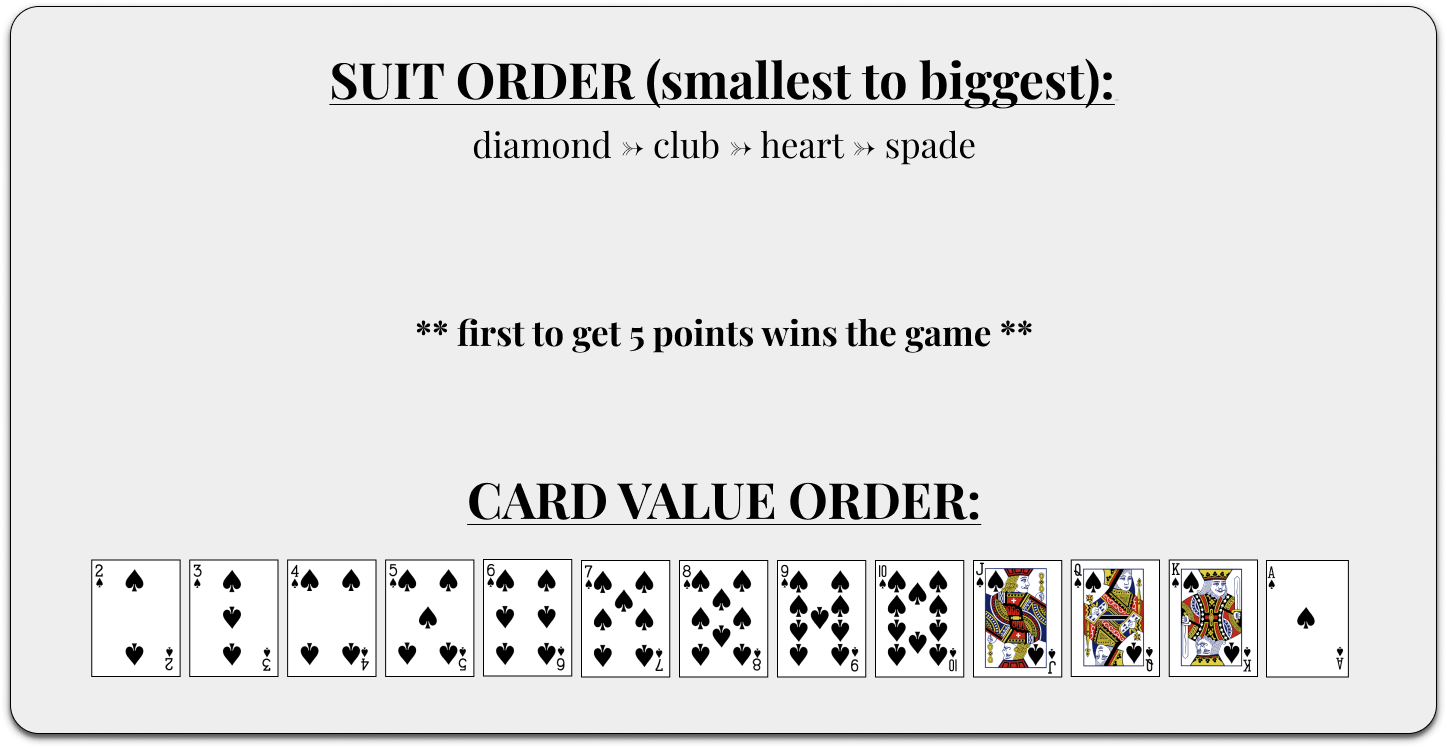
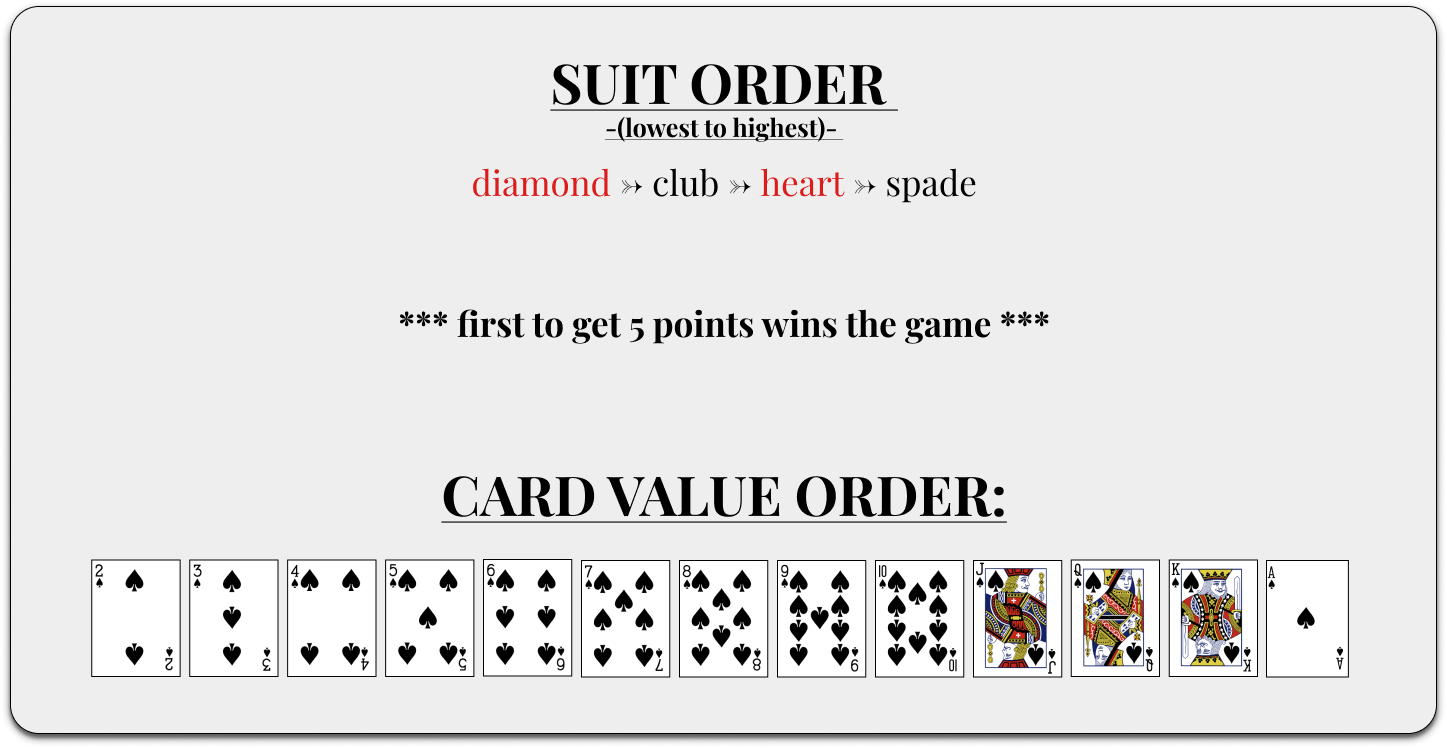
edit READme.md

Changed region(s): [[0.2177, 0.0615, 0.7775, 0.2767], [0.2799, 0.615, 0.7153, 0.7072], [0.2799, 0.3997, 0.7464, 0.492]]

diff --git a/README.md b/README.md
@@ -2,58 +2,61 @@
 
 ## Overview 
 ---
-Battle of the Greatest is dependent on the luck of draw. Two players will compete against each other to see who chooses the bigger card. 
-
-![scratch](images/READme/wireframe.jpeg)
-
+Battle of the Greatest is dependent on the luck of draw. Two players will compete against each other to see who picks the higher card. First to get to 5 points wins the game.
 
 
 ## Wireframe
 ---
+
+![scratch](images/READme/wireframe.jpeg)
+
 ![prototype](images/READme/prototype.png)
 
 
 
-## Instructions
+## Information tab:
 ---
 
-- Whoever gets to 5 points first wins. Winner gets 1 point each round.
+![info](images/info-card.png)
 
 
+    1) Show suits from lowest to highest:
+    (diamond => clover => heart => spade)
 
-## Instruction tab:
----
-    
-![suits](images/READme/carte-symbole.png)
+    2) Show card rank from lowest to highest
+    (2-10 J, Q, K, A)
 
-
-    - showing suits from smallest to biggest
-    (diamonf, clover, heart, spade)
-
-    - showing card number smallest to biggest
-    (3-10 J, Q, K, A, 2)
+    3) Winner of each round gains one point. First to gain 5 points will be the final winner of the game.
 
 
 
 ## User story:
 ---
-- User clicks "start/choose a card button" to begin
+1) Click the start button to go into the main play room
     - button disappears when it's been clicked
-    - **BONUS:** click sound
+    - **BONUS** : click sound
 
-- User chooses a random card from deck. Computer will randomize a card for user if user doesn't pick within 10 seconds
-    - **BONUS:** layout cards + shuffle sound (first round)
+2) **INFO ICON** : information tab will show the instructions of the game
 
-- Card is revealed on user's side (enlarged)
-    - **BONUS:** card slides over (revealed)
+3) **REFRESH BUTTON** : reloads the game
 
-- Computer's turn to choose a card (randomize)
+4) **STACK OF CARDS** : Choose a random card from the deck. Both players will be assigned a random card
+    - **BONUS** : layout cards + shuffle sound 
 
-- Compare both cards to see which card is bigger
-    - **DIFFICULTY:** comparing suits
+5) Card is revealed for both players (enlarged)
+    - **BONUS** : card slides over (revealed)
 
-- alert('User wins')
+6) Compare both cards to see which card is higher
+    - **DIFFICULTY** : comparing suits
+
+7) **SCORE** : add one point to winner of each round
     - score += 1
 
-- After a player reaches 5 points, there will be another alert pop up or have a button pop up to annouce winner:
-    - alert('User is the winner!')
+8) After a player reaches 5 points, the winner will be announced on screen
+
+## Technologies:
+---
+- HTML
+- CSS
+- JavaScript
+- jQuery
